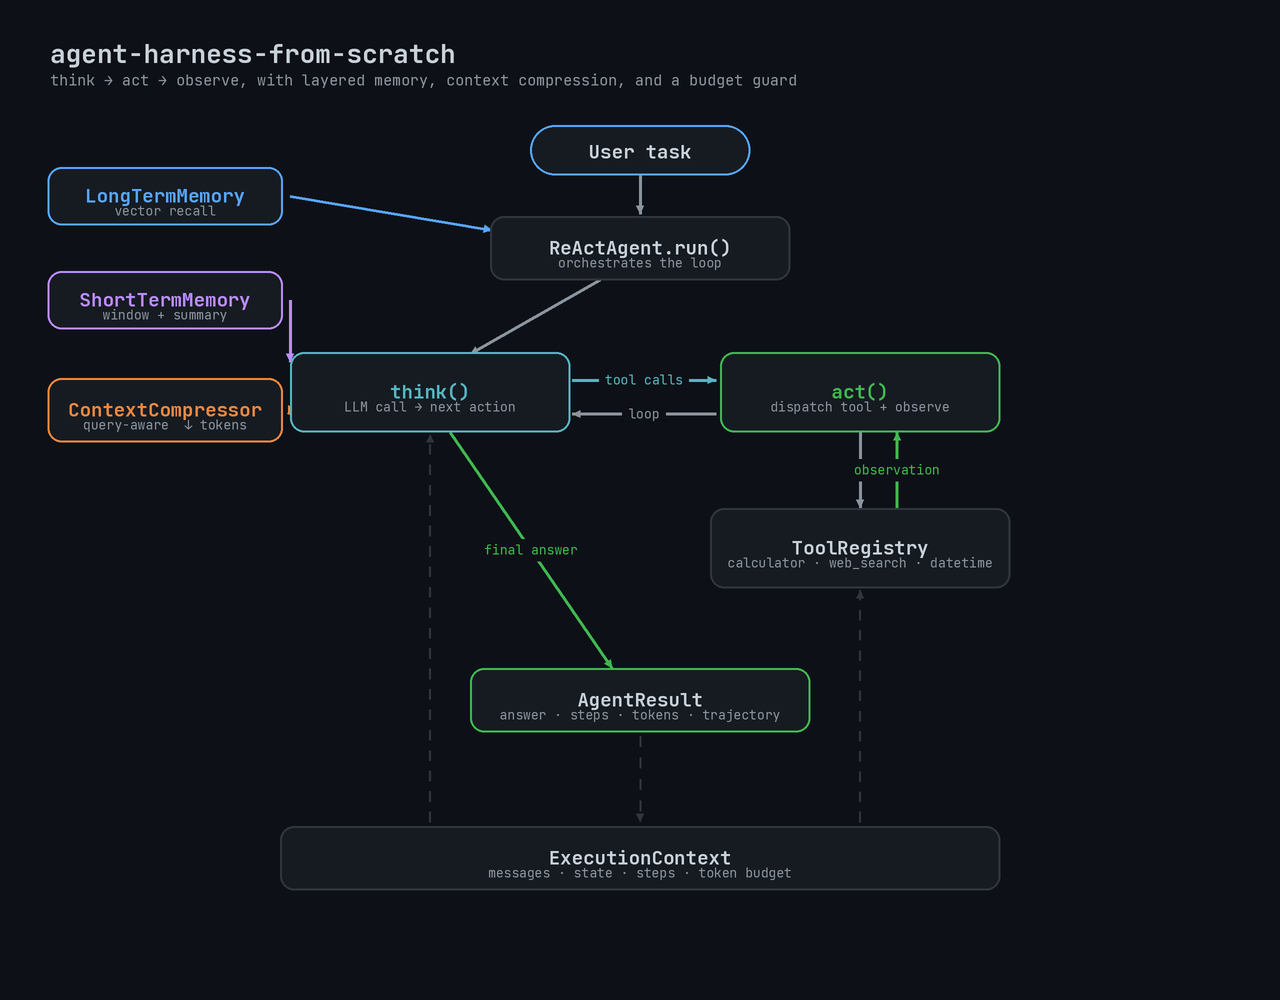
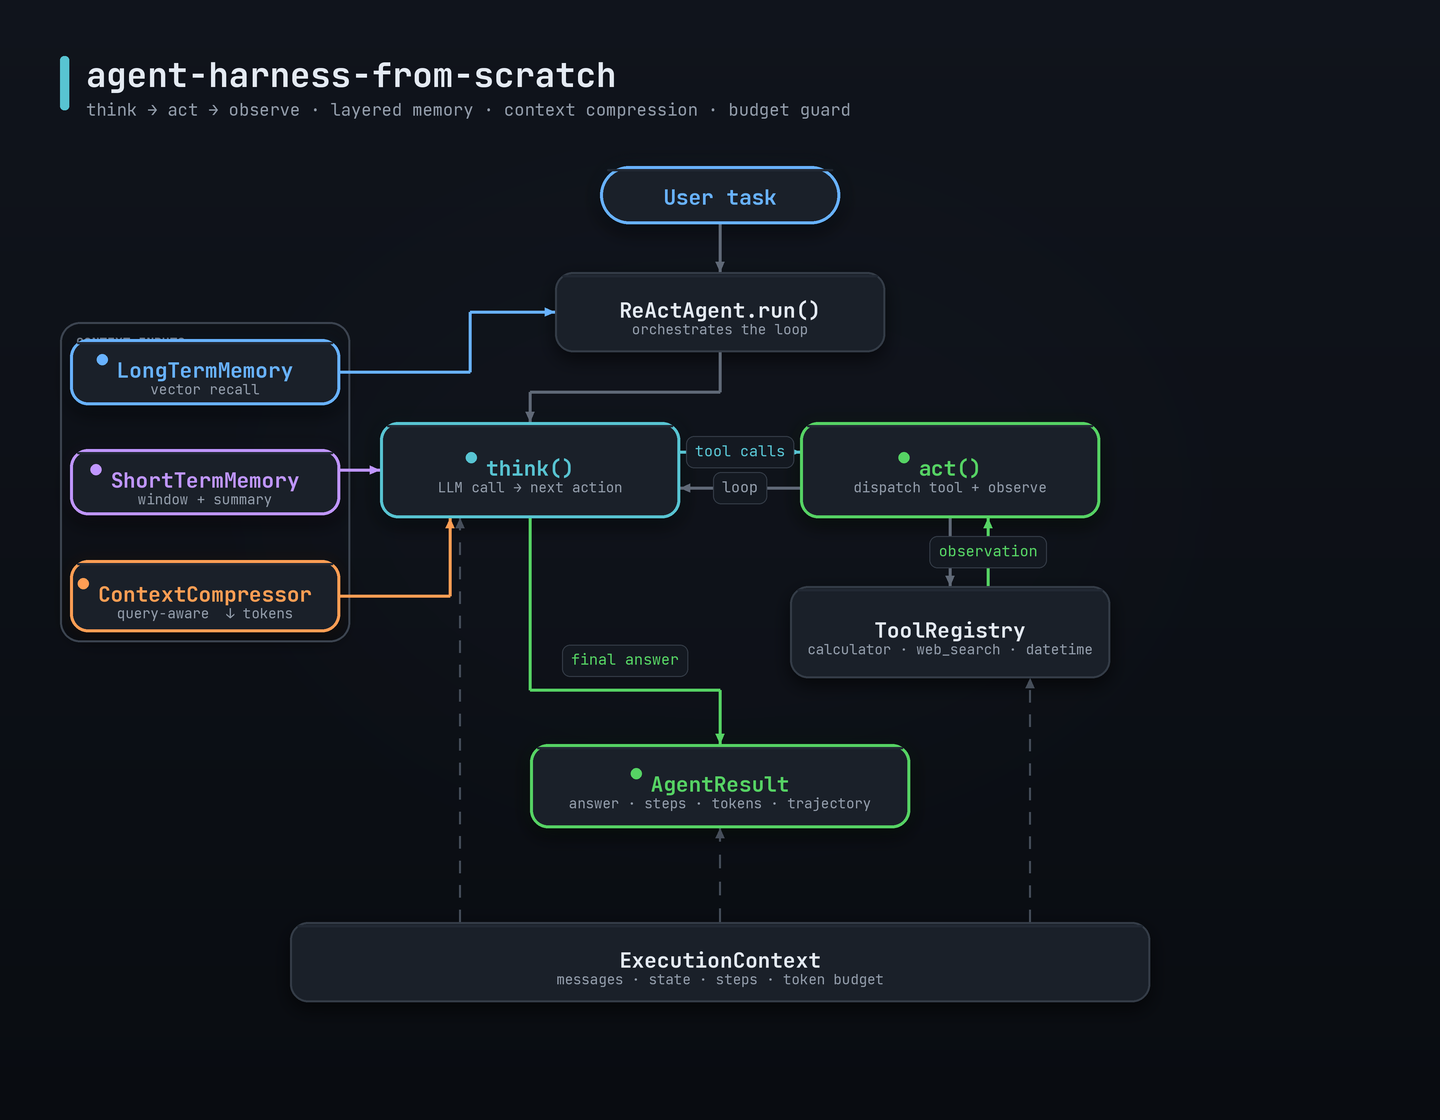
Polish architecture diagram and add context compression screenshot

diff --git a/README.md b/README.md
@@ -22,6 +22,11 @@ The evaluation harness scoring the agent over the sample tasks
 
 ![Eval scorecard](docs/eval-scorecard.png)
 
+Query-aware context compression shrinking a document before the LLM call
+(`python examples/context_compression.py`):
+
+![Context compression](docs/context-compression.png)
+
 ## Why this exists
 
 Most "agent" projects wire together a framework and call it a day. This one implements the pieces that actually matter in production: